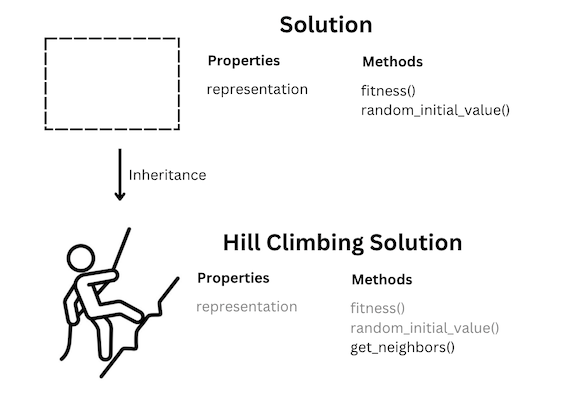
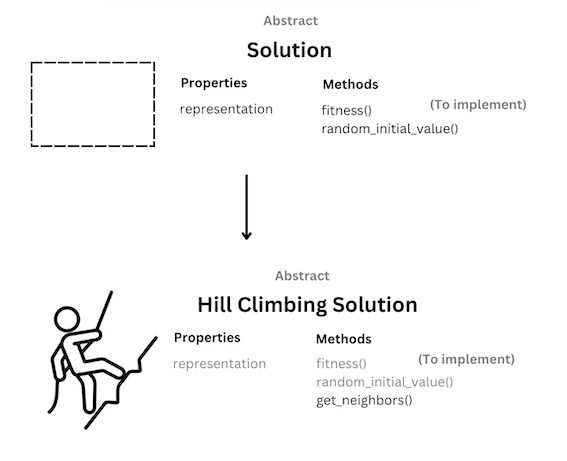
Restructured library

diff --git a/library/algorithms/hill_climbing.py b/library/algorithms/hill_climbing.py
@@ -1,18 +1,27 @@
 from copy import deepcopy
-from abc import ABC, abstractmethod
+
 from library.solution import Solution
 
-class HillClimbingSolution(Solution, ABC):
-    @abstractmethod
-    def get_neighbors(self):
-        pass
+def hill_climbing(initial_solution: Solution, maximization=False, max_iter=99999, verbose=False):
+    """
+    Implementation of the Hill Climbing optimization algorithm.  
 
+    The algorithm iteratively explores the neighbors of the current solution, moving to a neighbor if it improves the objective function.  
+    The process continues until no improvement is found or the maximum number of iterations is reached.  
 
-def hill_climbing(initial_solution: HillClimbingSolution, maximization=False, max_iter=99999, verbose=False):
+    Args:
+        initial_solution (Solution): The starting solution, which must implement the `fitness()` and `get_neighbors()` methods.
+        maximization (bool, optional): If True, the algorithm maximizes the fitness function; otherwise, it minimizes it. Defaults to False.
+        max_iter (int, optional): The maximum number of iterations allowed before stopping. Defaults to 99,999.
+        verbose (bool, optional): If True, prints progress details during execution. Defaults to False.
 
-    # Verify initial solution type
-    if not isinstance(initial_solution, HillClimbingSolution):
-        raise TypeError("Initial solution must inherit from HillClimbingSolution")
+    Returns:
+        Solution: The best solution found during the search.
+
+    Notes:
+        - The initial_solution must implement a `fitness()` and `get_neighbors()` method.
+        - The algorithm does not guarantee a global optimum; it only finds a local optimum.
+    """
 
     current = initial_solution
     improved = True
@@ -23,7 +32,7 @@ def hill_climbing(initial_solution: HillClimbingSolution, maximization=False, ma
             print(f'Current solution: {current} with fitness {current.fitness()}')
 
         improved = False
-        neighbors = current.get_neighbors()
+        neighbors = current.get_neighbors() # Solution must have a get_neighbors() method
 
         for neighbor in neighbors:
 

diff --git a/library/problems/int_bin.py b/library/problems/int_bin.py
@@ -18,7 +18,6 @@ import random
 from copy import deepcopy
 
 from library.solution import Solution
-from library.algorithms.hill_climbing import HillClimbingSolution
 
 class IntBinSolution(Solution):
     """The IntBin Optimization problem aims at finding the integer number
@@ -45,7 +44,7 @@ class IntBinSolution(Solution):
         return self.repr.count('1')
 
 # Algorithm specific
-class IntBinHillClimbingSolution(IntBinSolution, HillClimbingSolution):
+class IntBinHillClimbingSolution(IntBinSolution):
     def get_neighbors(self):
         neighbors = []
         # Convert binary string to list of bits

diff --git a/library/README.md b/library/README.md
@@ -12,31 +12,32 @@ The library follows a structured approach:
 2. **Problem-Specific Solution Classes**
 
 - Extend `Solution` and implement problem-specific methods.
-- Implements the `fitness()` and `random_initial_value()` methods.
+- Implements the `fitness()` and `random_initial_value()` methods
 - Example: `TSPSolution` for the Traveling Salesperson Problem in `problems/tsp.py`
 
-3. **Algorithm-Specific Solution Classes**
-- Extend `Solution` and define a generic structure for each optimization algorithm.
-- Requires implementation of methods specific to the optimization algorithm.
-- Example: `HillClimbingSolution` in `algorithms/hill_climbing.py`
+3. **Problem-Algorithm-Specific Solution Classes**
+- Extend a problem solution class and implements methods needed for an optimization algorithm to work
+- Example: `TSPHillClimbingSolution` inherits from `TSPSolution` and implements the `get_neighbors()` method. Available in `problems/tsp.py`.
 
-4. **Problem-Algorithm-Specific Solution Classes**
-- Extend both a problem solution class and an optimization algorithm class.
-- Implements the Algorithm-Specific abstract methods
-- Example: `TSPHillClimbingSolution` inherits from `TSPSolution` and `HillClimbingSolution` available in `problems/tsp.py`.
-
-Besides the Algorithm-Specific Solution Classes, implementations of the optimization algorithms are also available in the `algorithms` directory.
+Implementations of the optimization algorithms are also available in the `algorithms` directory.
 
 ## Adding a New Optimization Problem
 
-To solve a new optimization problem, create a new **problem-specific solution class** that extends `Solution` and that implements the specific `fitness()` and `random_initial_value()` methods for the optimization problem.
+To introduce a new optimization problem:
+
+1. Create a **problem-specific solution class** that extends `Solution`.
+2. This class should implement the `fitness()` and `random_initial_value()` methods specific to the problem.
+
+## Applying an Optimization Algorithm to a New Problem
+
+To optimize a problem using an algorithm:
+
+1. Define a **problem-algorithm-specific solution class** that extends the **problem-specific class**.
+2. Implement the required methods for the chosen optimization algorithm.
+3. Instantiate an initial solution using this class and pass it as an argument to the optimization algorithm function.
 
 
-## Solving a New Optimization Problem using an Optimization Algorithm
 
-Each problem can be optimized using different algorithms by defining a **problem-algorithm-specific solution class** that extends both the **problem-specific** solution class and the **algorithm-specific** solution class.
 
-This class should implement the **algorithm-specific** abstract methods that are left to implement.
 
-An initial solution to the optimization problem can be created using this class, and this inital solution can then be passed as argument to the optimization problem algorithm function.
 
